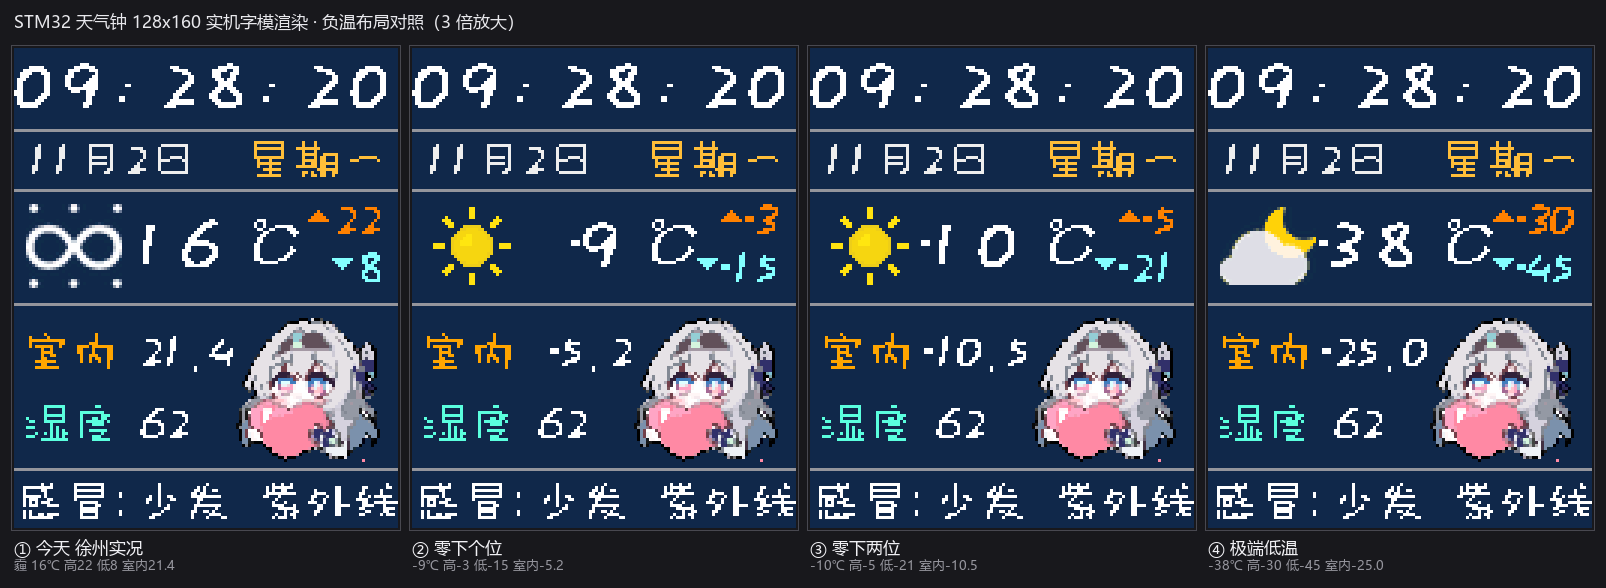
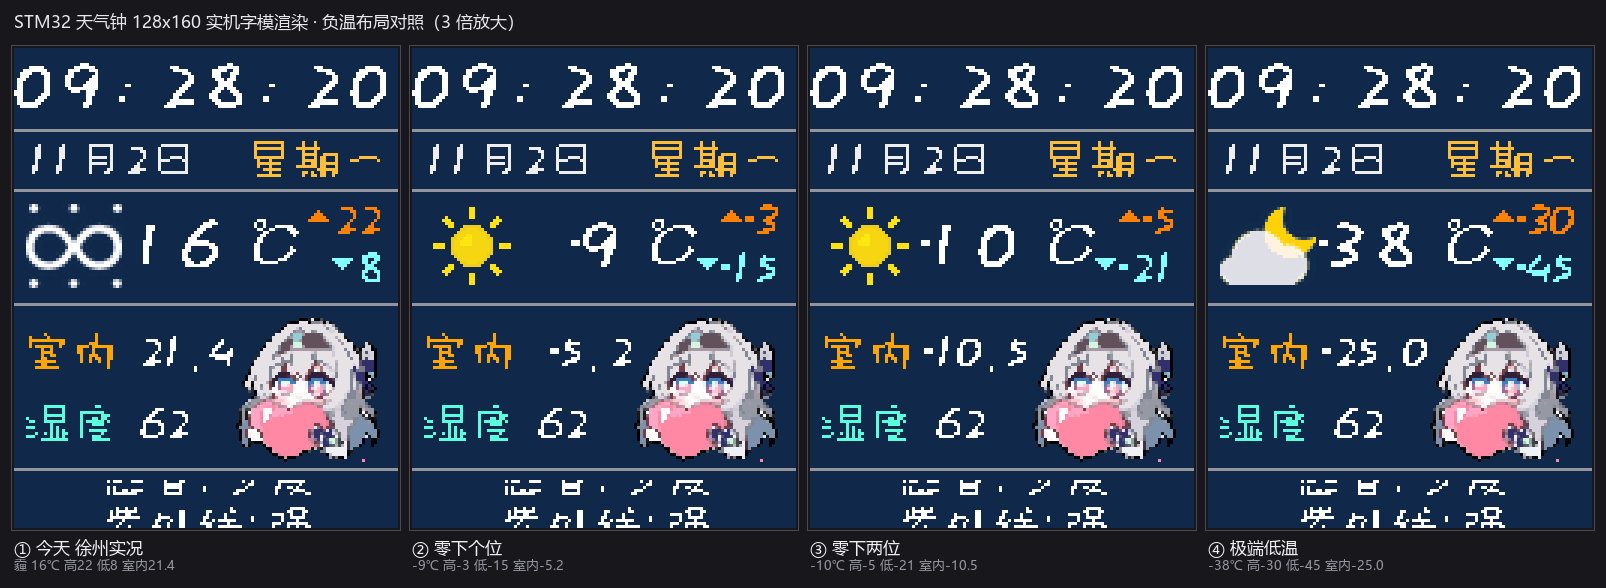
docs: render last row as vertical-scroll mid-frame in UI preview

Changed region(s): [[0.0, 0.7959, 0.9963, 0.9184]]

diff --git a/README.md b/README.md
@@ -6,7 +6,7 @@
 
 ![UI 预览](docs/ui_preview.png)
 
-*（真字模渲染图：时间 / 日期 / 天气行 / 室内温湿度 / 桌宠；实物为 128×160 ST7735 彩屏）*
+*（真字模渲染图：时间 / 日期 / 天气行 / 室内温湿度 / 桌宠；最后一行为 6 页轮播上下滚动的中间帧——旧页"感冒:少发"上滑、新页"紫外线:强"从底部推入。实物为 128×160 ST7735 彩屏）*
 
 ![桌宠动画](docs/pet.gif)
 
